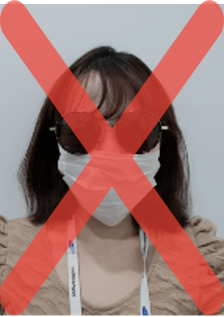
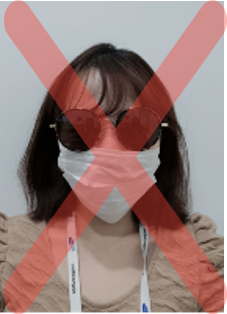
fingerprint info
Former-commit-id: 95eb24214c05ee3518a5044cd5f93e5148302924

diff --git a/React_User/web-for-user/src/components/main/UserAuthFace.jsx b/React_User/web-for-user/src/components/main/UserAuthFace.jsx
@@ -77,7 +77,7 @@ const UserAuthFace = props => {
         <Grid container spacing={3}>
           <Grid item xs={12}>
             <Image
-              src={finger}
+              src={captureExam}
               alt="finger-print"
               disableSpinner="true"
               disableTransition="true"
